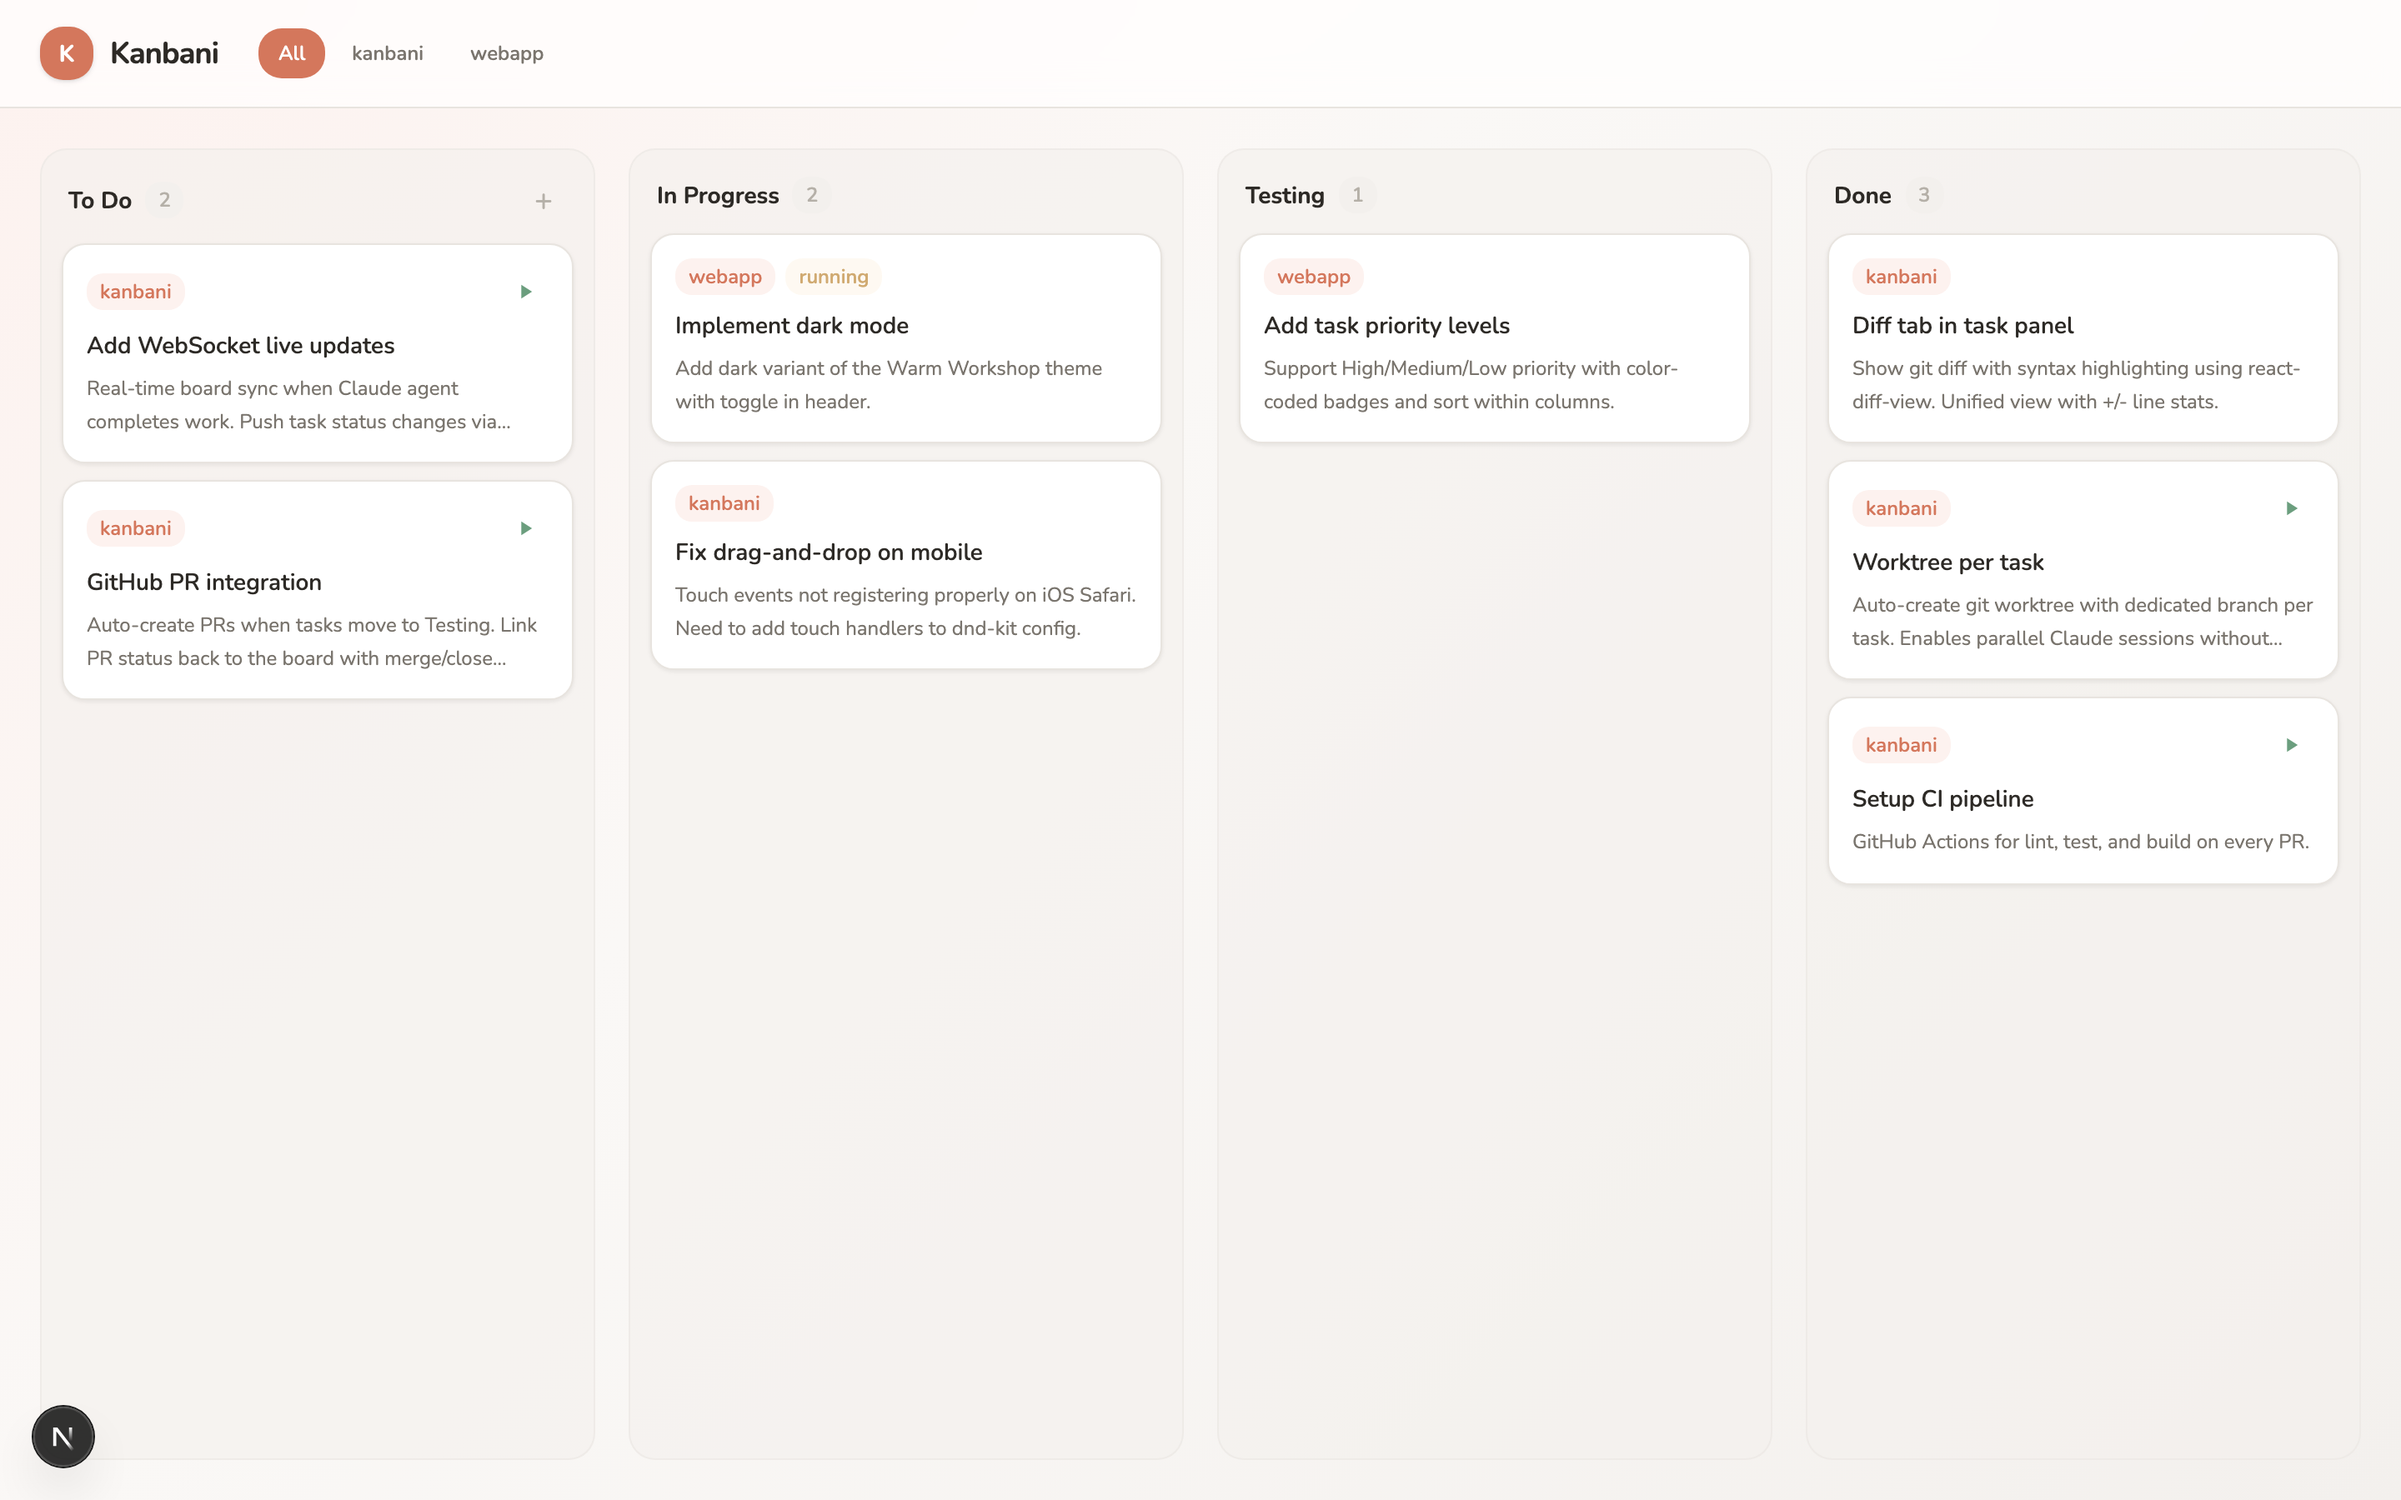
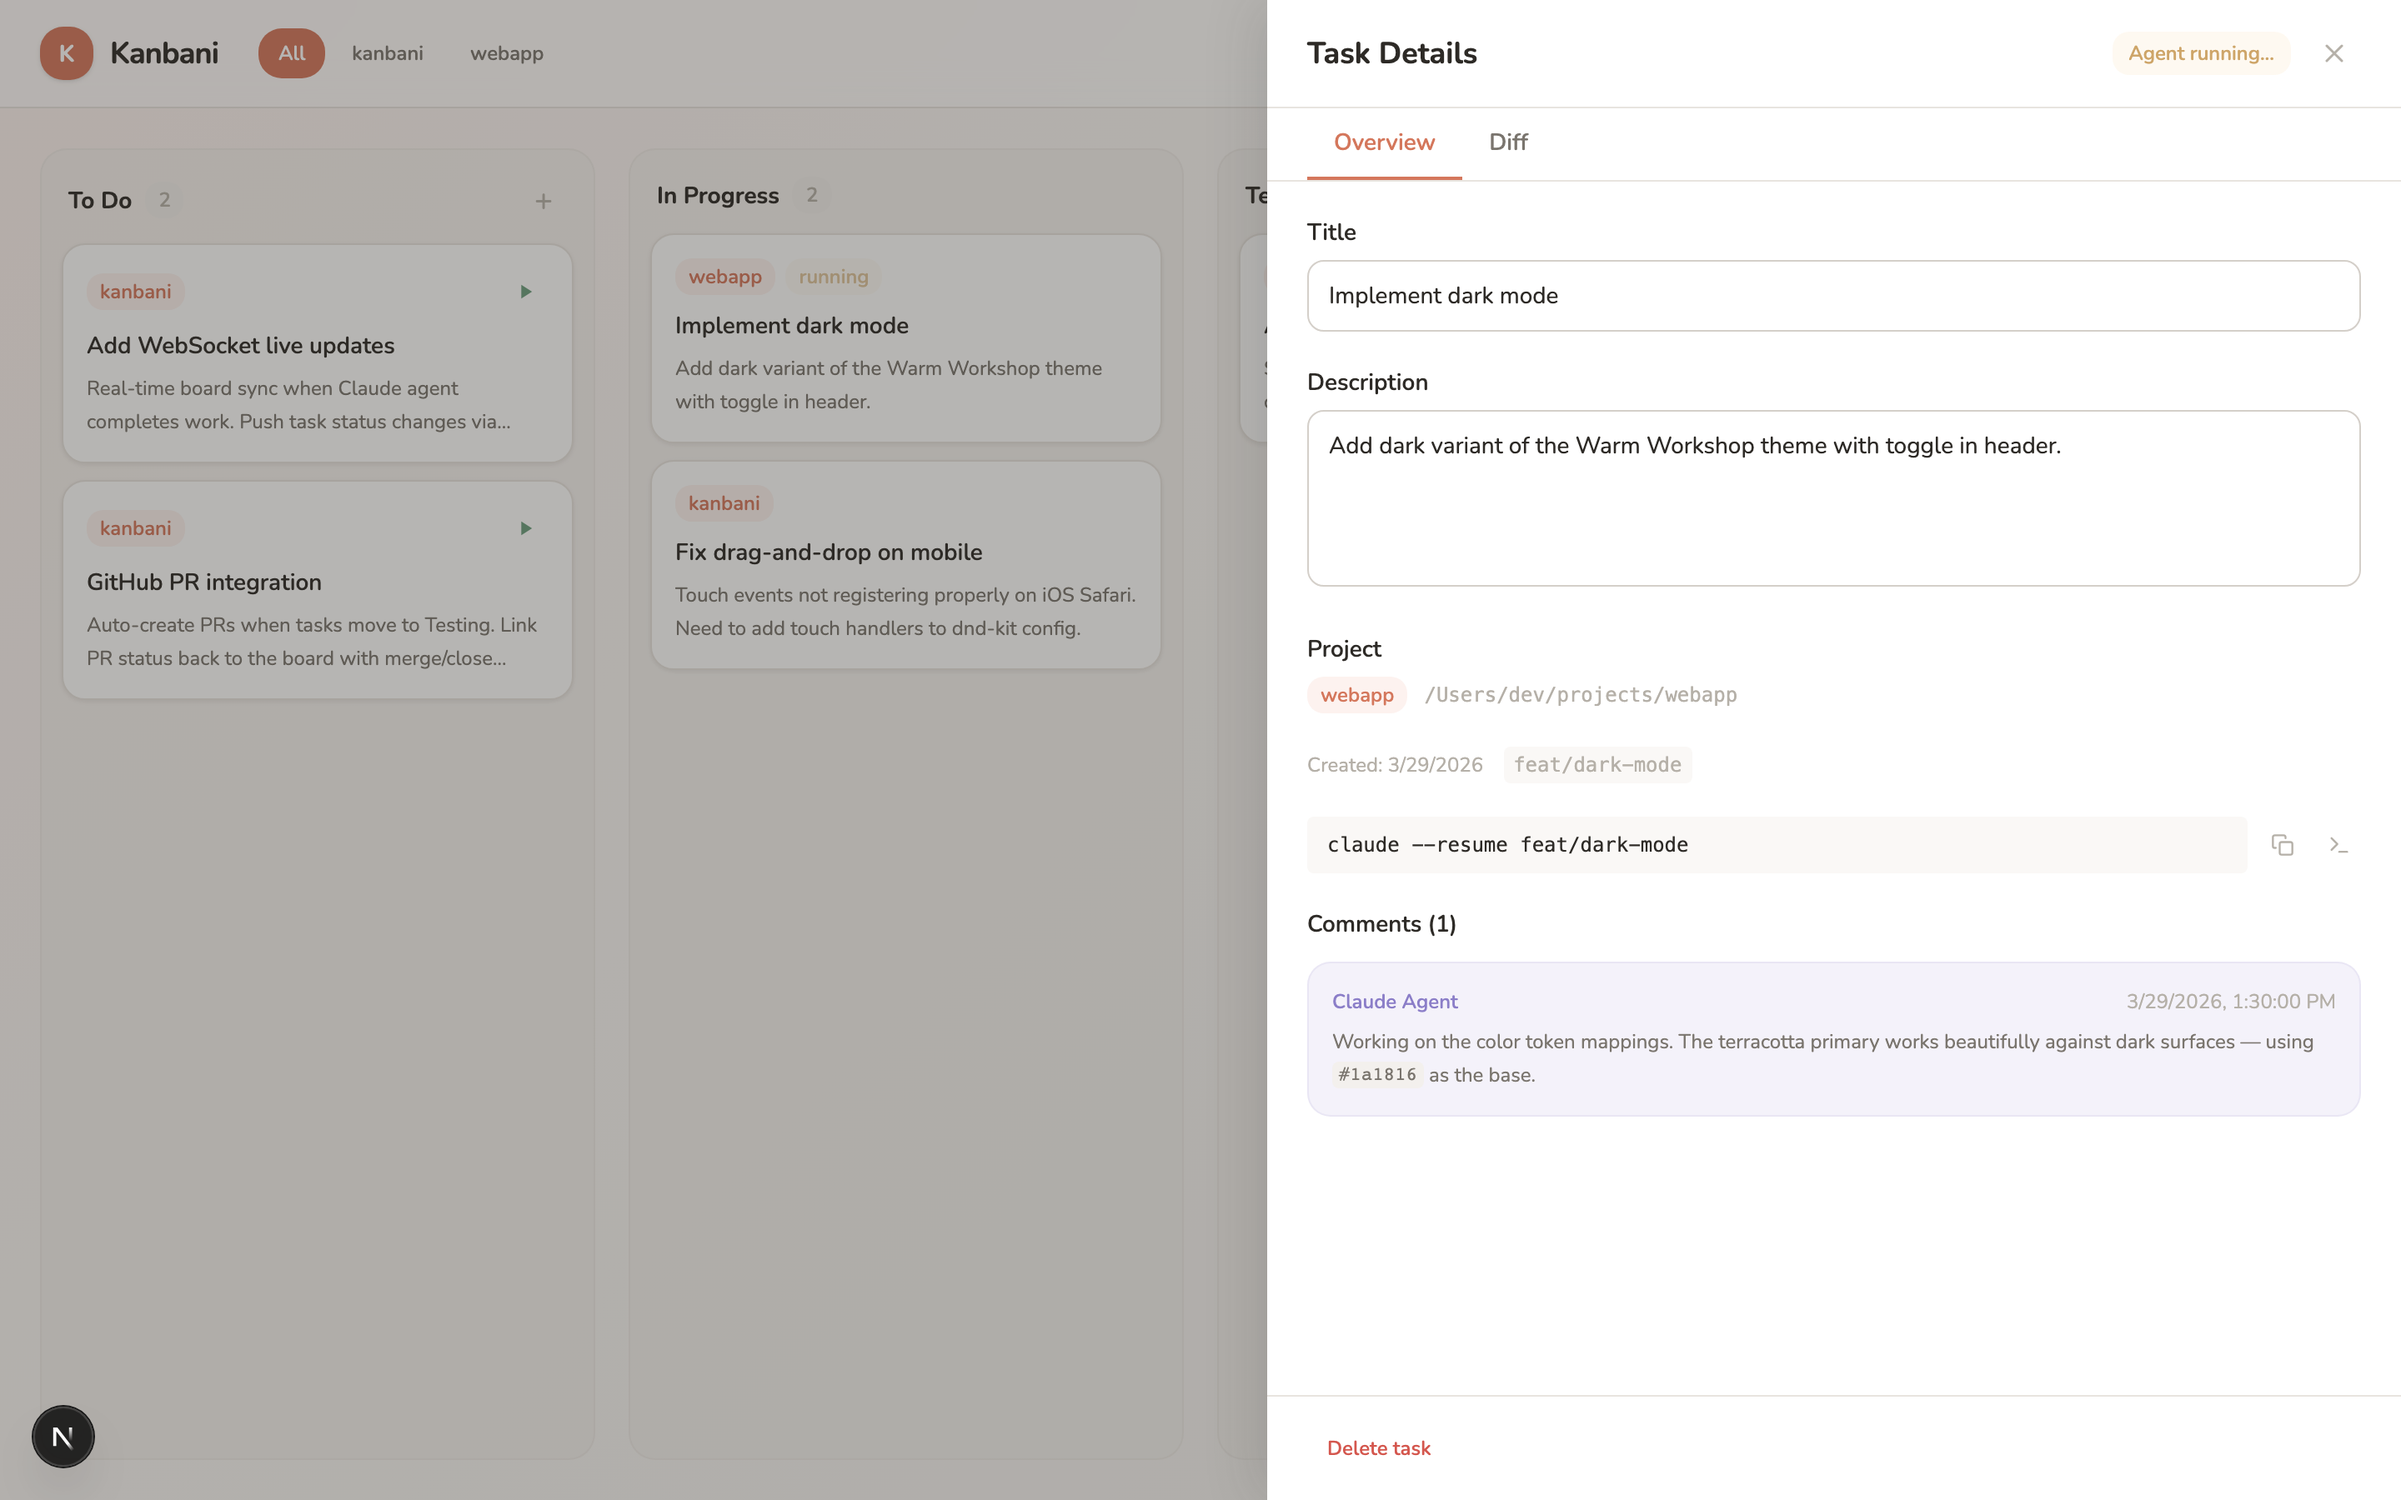
chore: update screenshot with open task panel

diff --git a/e2e/screenshot.spec.ts b/e2e/screenshot.spec.ts
@@ -143,6 +143,10 @@ test("capture demo board screenshot", async ({ browser }) => {
 	await page.waitForSelector("h1");
 	await page.waitForTimeout(500);
 
+	// Click on a task to open the side panel
+	await page.getByText("Implement dark mode").click();
+	await page.waitForTimeout(400);
+
 	await page.screenshot({
 		path: "e2e/screenshots/demo-board.png",
 		fullPage: false,
